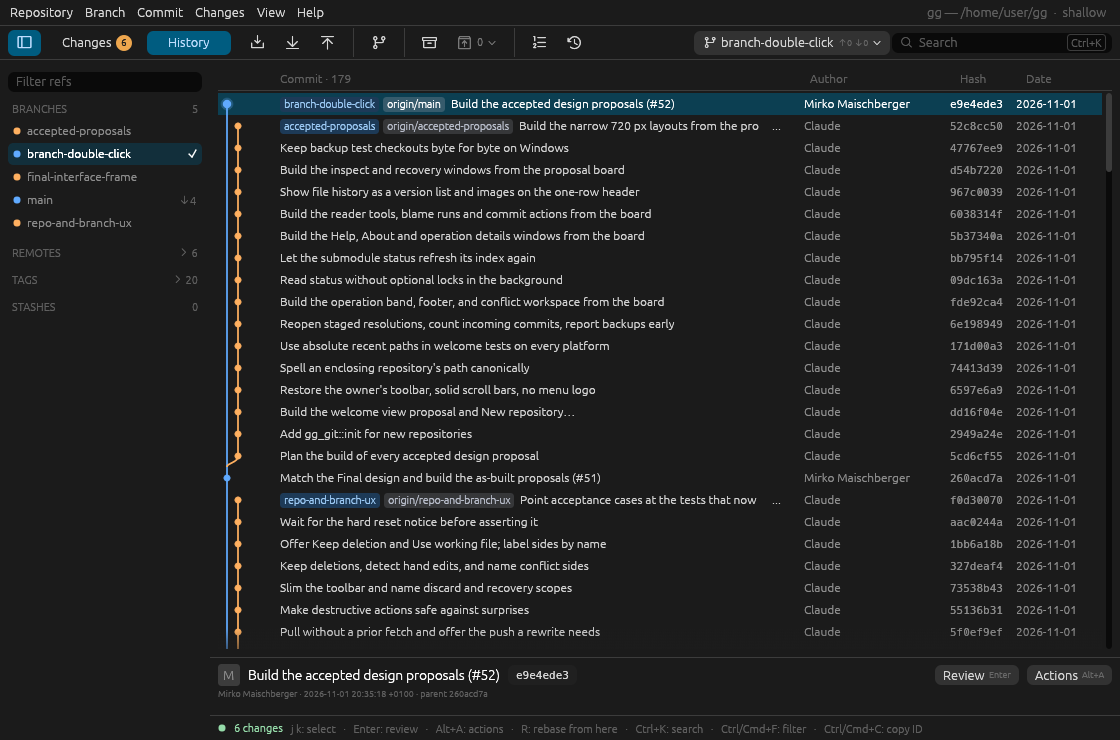
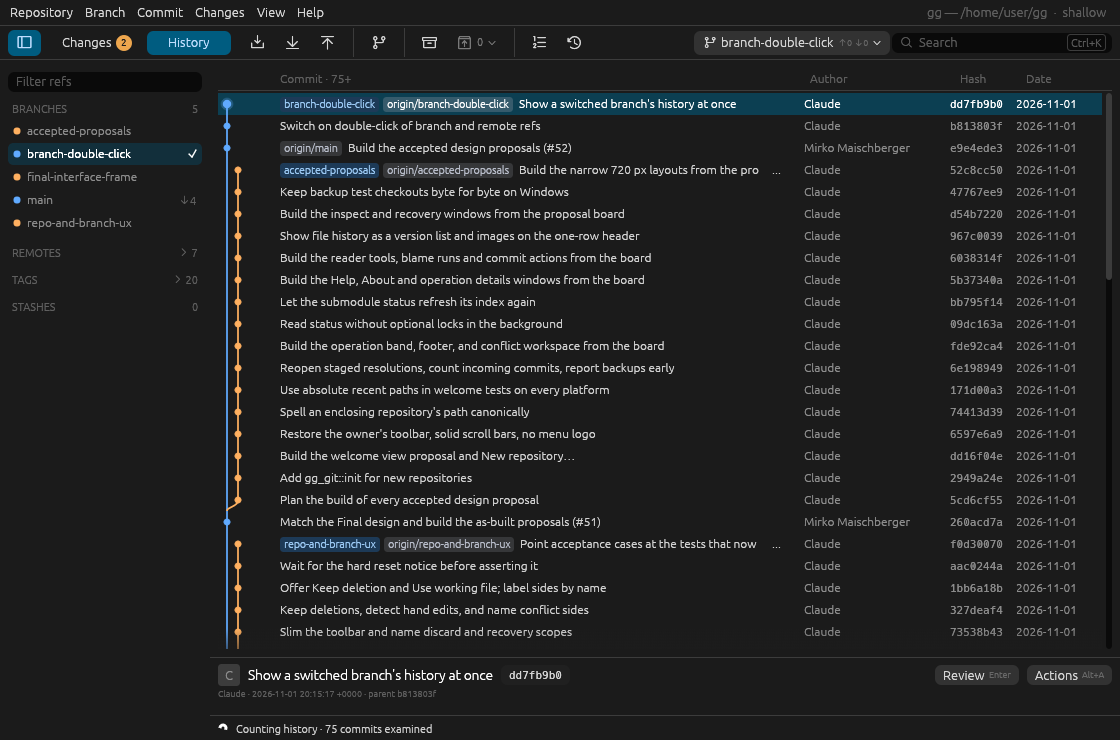
Make branch switching instant (#54)
* Show a switched branch's history at once

After a switch the new history waited until the pointer left the
History list (the guard that keeps background refreshes from moving
rows under the mouse), and until the old top commit was found again,
which on another branch can mean the whole scan. A double-click on a
ref therefore took seconds. An explicit switch now replaces the list
on the first page, at the top, with the new HEAD selected.

* Move HEAD in place when switching between branches

History holds HEAD and every ref, so switching from one branch to
another existing branch changes no row. The switch no longer reads
the history again (nor lets the watcher do so for its own HEAD
change): HEAD moves and the new tip is selected in the list already
shown. Creating a branch on switch, or leaving a detached HEAD, still
reads it again.

---------

diff --git a/apps/git-good/src/main.rs b/apps/git-good/src/main.rs
@@ -620,6 +620,33 @@ struct StashPicker {
 
 use recovery_view::RecoveryView;
 
+/// Whether a staged history update may replace the displayed history now.
+///
+/// Background refreshes wait while the pointer is over History (`safe` is
+/// false) and until the old top row is found again, so rows never shift
+/// under the mouse. An explicit jump (a branch switch) asked for the new
+/// history, so it shows as soon as its first page arrives.
+fn accept_history_now(
+    safe: bool,
+    shown: bool,
+    jump: bool,
+    rewrite_refresh: bool,
+    staged: Option<&stream::Update>,
+) -> bool {
+    let Some(update) = staged else {
+        return false;
+    };
+    if jump {
+        return true;
+    }
+    (safe || !shown)
+        && (rewrite_refresh
+            || update.request.anchor_id.is_none()
+            || update.anchor_row.is_some()
+            || update.complete
+            || update.error.is_some())
+}
+
 /// What switching to a remote branch does.
 #[derive(Debug, PartialEq, Eq)]
 enum RemoteSwitch {
@@ -1747,6 +1774,9 @@ struct Browser {
     rewrite_dialog: Option<rebase_dialog::Dialog>,
     rewrite_job: Option<RewriteJob>,
     rewrite_refresh: Option<u64>,
+    /// The next history load follows an explicit jump (a branch switch):
+    /// show it at once, without the hover and anchor waits.
+    history_jump: bool,
     commit_actions: bool,
     local_summary: Option<LocalSummary>,
     local_summary_job: Option<std::sync::mpsc::Receiver<LocalSummary>>,
@@ -1943,6 +1973,7 @@ impl Browser {
             pull_rebase: None,
             rewrite_dialog: None,
             rewrite_job: None,
+            history_jump: false,
             rewrite_refresh: None,
             commit_actions: false,
             local_summary: None,
@@ -8336,11 +8367,16 @@ impl Browser {
             query: self.state.query.clone(),
             selected_id: self.state.selected.clone(),
             selected_row: self.restore_row.take(),
-            anchor_id: self
-                .state
-                .rows
-                .get(&((self.scroll_offset / crate::density::row()) as usize))
-                .map(|c| c.id.clone()),
+            // A jump starts at the top on its own selection; the old top row
+            // may not exist on the new branch.
+            anchor_id: (!self.history_jump)
+                .then(|| {
+                    self.state
+                        .rows
+                        .get(&((self.scroll_offset / crate::density::row()) as usize))
+                        .map(|c| c.id.clone())
+                })
+                .flatten(),
             ..Default::default()
         };
         self.staged = None;
@@ -9630,14 +9666,42 @@ impl Browser {
                             pull.is_some().then_some(RecoveryAction::PullRebase),
                         );
                     }
-                    self.state.query.clear();
-                    self.state.start_filter();
-                    self.state.selected = Some(receipt.head);
-                    self.state.selected_row = None;
-                    self.state.details = None;
-                    self.scroll_offset = 0.0;
-                    self.scroll_to_selection = true;
-                    self.load(ctx);
+                    // History holds HEAD and every ref, so switching from
+                    // one branch to another existing one changes no row:
+                    // move HEAD and select its tip in the list already
+                    // shown. A new branch, or leaving a detached HEAD (whose
+                    // commits may drop out), reads the history again.
+                    let from_branch = self
+                        .state
+                        .refs
+                        .head
+                        .as_ref()
+                        .is_some_and(|head| !head.detached && head.commit.is_some());
+                    if from_branch && !receipt.created {
+                        self.state.refs.head = Some(gg_engine::refs::Head {
+                            name: Some(format!("refs/heads/{}", receipt.branch)),
+                            detached: false,
+                            commit: Some(receipt.head.clone()),
+                        });
+                        self.jump_to_ref(receipt.head);
+                        self.scroll_to_selection = true;
+                        // The switch's own HEAD change must not make the
+                        // watcher read the unchanged history again.
+                        self.last_load = Some(std::time::Instant::now());
+                        self.refresh_mutation();
+                        self.refresh_local_summary(ctx);
+                        self.refresh_working(ctx);
+                    } else {
+                        self.state.query.clear();
+                        self.state.start_filter();
+                        self.state.selected = Some(receipt.head);
+                        self.state.selected_row = None;
+                        self.state.details = None;
+                        self.scroll_offset = 0.0;
+                        self.scroll_to_selection = true;
+                        self.history_jump = true;
+                        self.load(ctx);
+                    }
                 }
                 Err(error) => {
                     self.branch_warning = None;
@@ -9816,16 +9880,16 @@ impl Browser {
                 }
             }
             if self.pending.is_some()
-                && (safe || self.state.history.is_none())
-                && (self.rewrite_refresh.is_some()
-                    || self.staged.as_ref().is_some_and(|u| {
-                        u.request.anchor_id.is_none()
-                            || u.anchor_row.is_some()
-                            || u.complete
-                            || u.error.is_some()
-                    }))
+                && accept_history_now(
+                    safe,
+                    self.state.history.is_some(),
+                    self.history_jump,
+                    self.rewrite_refresh.is_some(),
+                    self.staged.as_ref(),
+                )
                 && let Some(update) = self.staged.take()
             {
+                self.history_jump = false;
                 self.restore_offset = Some(
                     update
                         .anchor_row
@@ -17163,6 +17227,45 @@ mod tests {
             events,
             ..Default::default()
         }
+    }
+
+    #[test]
+    fn switching_between_branches_moves_head_without_rereading_history() {
+        // History holds HEAD and every ref, so a switch between branches
+        // changes no row: HEAD moves, the new tip is selected, and the list
+        // is not read again.
+        let ctx = egui::Context::default();
+        let mut app = layout_fixture();
+        let tip = format!("{:040x}", 7);
+        app.state.refs.head = Some(gg_engine::refs::Head {
+            name: Some("refs/heads/main".into()),
+            detached: false,
+            commit: Some(format!("{:040x}", 0)),
+        });
+        let (tx, rx) = std::sync::mpsc::sync_channel(1);
+        let _ = tx.send(Ok(gg_git::branch::Receipt {
+            branch: "feature/login".into(),
+            head: tip.clone(),
+            created: false,
+            warnings: Vec::new(),
+            stash: None,
+        }));
+        app.branch = Some(rx);
+        let _ = crate::tests::run_ui(&ctx, frame_input(1120.0, 740.0, vec![]), |ctx| {
+            app.draw_ui(ctx)
+        });
+        assert!(app.pending.is_none(), "no history re-read");
+        assert!(app.last_load.is_some(), "the watcher sees it as read");
+        assert_eq!(
+            app.state.refs.head,
+            Some(gg_engine::refs::Head {
+                name: Some("refs/heads/feature/login".into()),
+                detached: false,
+                commit: Some(tip.clone()),
+            })
+        );
+        assert_eq!(app.state.selected.as_deref(), Some(tip.as_str()));
+        assert_eq!(app.current_branch().as_deref(), Some("feature/login"));
     }
 
     #[test]

diff --git a/apps/git-good/src/interaction_tests.rs b/apps/git-good/src/interaction_tests.rs
@@ -769,3 +769,44 @@ fn status_back_preserves_history_selection_and_anchor() {
     assert_eq!(h.app.state.selected, selected);
     assert!((h.app.scroll_offset - offset).abs() < 1.0);
 }
+
+#[test]
+fn a_branch_switch_shows_its_history_at_once_even_under_the_pointer() {
+    // A background refresh whose old top row has not been found yet, with
+    // the pointer over History: it waits, so rows never shift underneath.
+    let request = stream::Request {
+        anchor_id: Some("f".repeat(40)),
+        ..Default::default()
+    };
+    let mut waiting = update(request, 3);
+    waiting.anchor_row = None;
+    waiting.complete = false;
+    assert!(!accept_history_now(
+        false,
+        true,
+        false,
+        false,
+        Some(&waiting)
+    ));
+    assert!(!accept_history_now(
+        true,
+        true,
+        false,
+        false,
+        Some(&waiting)
+    ));
+    // A switch asked for the new history: shown on its first page.
+    assert!(accept_history_now(false, true, true, false, Some(&waiting)));
+    // Nothing staged yet: nothing to show.
+    assert!(!accept_history_now(true, true, true, false, None));
+    // Once found or complete, a refresh shows when the pointer leaves.
+    waiting.complete = true;
+    assert!(!accept_history_now(
+        false,
+        true,
+        false,
+        false,
+        Some(&waiting)
+    ));
+    assert!(accept_history_now(true, true, false, false, Some(&waiting)));
+}

diff --git a/docs/architecture.md b/docs/architecture.md
@@ -49,7 +49,7 @@ Publish discovered count, optional approximate estimate, and completion. Use val
 
 Anchor by commit ID and pixel offset. Preserve that anchor as the range grows. Freeze scrollbar geometry during scrolling, momentum, dragging, and scrollbar hover; preserve the thumb's grab offset. Apply pending extents after settling. Deep jumps show fixed-height loading slots and traversal progress.
 
-Pin hovered content and hit targets until pointer leave. Bind press/release to the same commit. Fill off-pointer slots in place; make a hovered loading slot clickable after leave/re-entry. Preserve row identity, position, focus, and selection.
+Pin hovered content and hit targets until pointer leave. Bind press/release to the same commit. Fill off-pointer slots in place; make a hovered loading slot clickable after leave/re-entry. Preserve row identity, position, focus, and selection. Background refreshes wait for the pointer to leave History and for the old top row to be found again. History holds HEAD and every ref, so a switch from one branch to another existing branch changes no row and does not read the history again: HEAD moves (current-branch marker, branch button, window title) and the new tip is selected in the list already shown, the moment Git's switch returns; the watcher does not re-read for that HEAD change. Creating a branch on switch, or leaving a detached HEAD, reads the history again, and that read replaces the list on its first page without the hover and anchor waits.
 
 Queue reordering, session replacement, and filter-result replacement during hover or interaction. Release queued changes after the relevant interaction ends; a configurable quiet interval handles scroll settling, while pointer leave releases hovered targets. Scrolling may reveal/fill slots with stable geometry.
 
